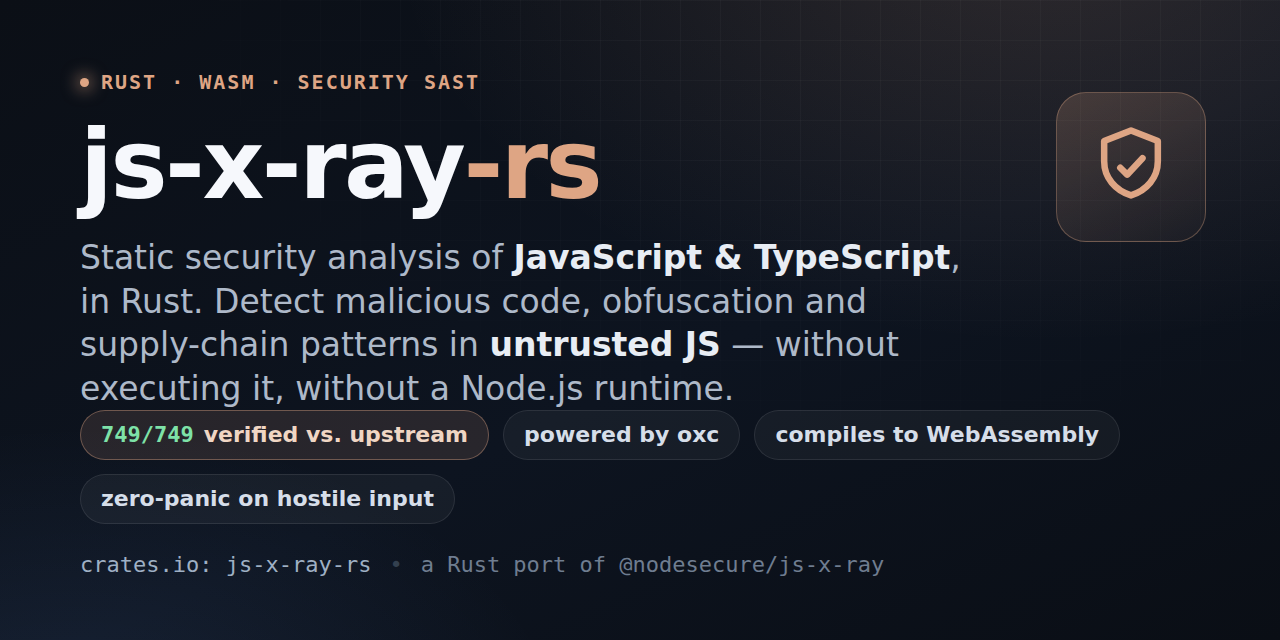
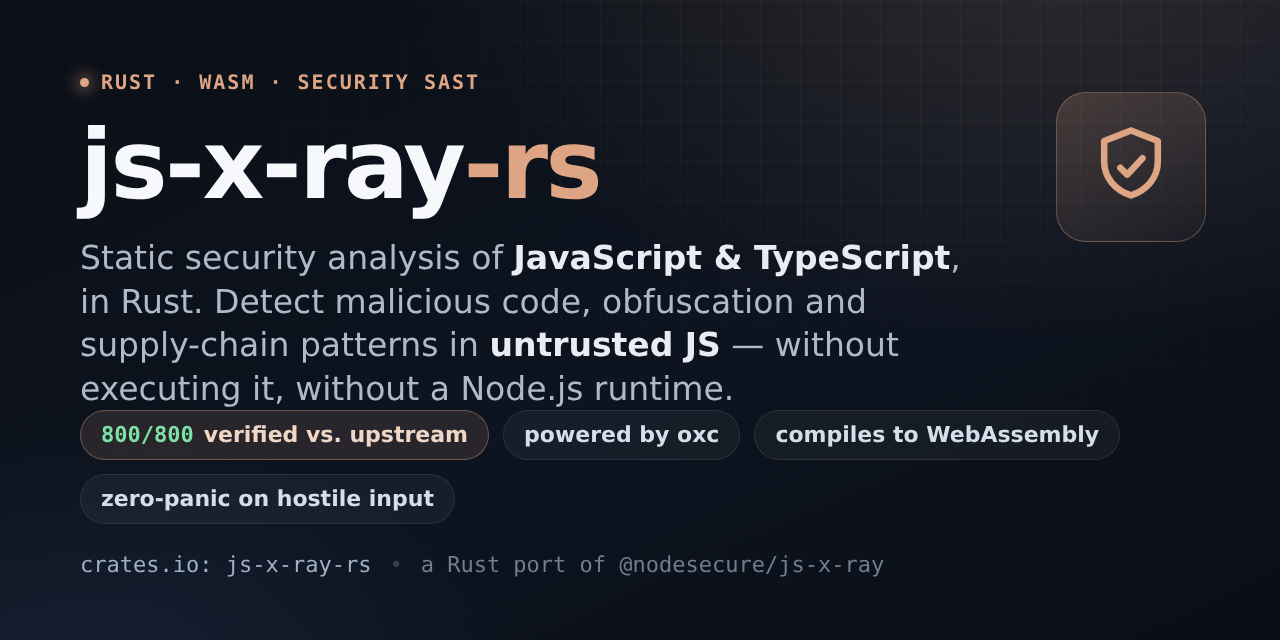
Release 0.2.1 tracking @nodesecure/js-x-ray 16.2.0
800/800 etalon cases match upstream 16.2.0.

diff --git a/.github/assets/social-preview.html b/.github/assets/social-preview.html
@@ -92,7 +92,7 @@
     </div>
 
     <div class="chips">
-      <div class="chip key"><span class="g">749/749</span> verified vs. upstream</div>
+      <div class="chip key"><span class="g">800/800</span> verified vs. upstream</div>
       <div class="chip">powered by oxc</div>
       <div class="chip">compiles to WebAssembly</div>
       <div class="chip">zero-panic on hostile input</div>

diff --git a/CHANGELOG.md b/CHANGELOG.md
@@ -4,6 +4,35 @@ All notable changes to `js-x-ray-rs` are documented here. The format follows
 [Keep a Changelog](https://keepachangelog.com/); versions follow
 [SemVer](https://semver.org/).
 
+## [0.2.1] — 2026-11-11
+
+Tracks `@nodesecure/js-x-ray` **16.2.0** ([pinned commit](UPSTREAM.lock)).
+
+### Added
+
+- `crypto.weak-pbkdf2` opt-in warning: `crypto.pbkdf2()`/`pbkdf2Sync()` with
+  an iteration count below OWASP's minimum for the digest (1,300,000 for
+  SHA-1, 600,000 for SHA-256, 210,000 otherwise) or a short or hardcoded
+  salt.
+- ``import(`lodash`)`` (template literal, no expressions) records the
+  dependency, and ``import(`data:text/javascript,...`)`` reports
+  `unsafe-import`, like their string-literal forms.
+
+### Changed
+
+- `synchronous-io` reports only the sync functions it lists, instead of
+  any traced call ending in `Sync` once `fs`, `crypto`, `child_process` or
+  `zlib` is imported. Its value is now the method name taken from the
+  traced identifier, so member calls such as `fs.readFileSync()` carry a
+  value instead of none.
+- Probes share upstream's new tracing and warning-aggregation helpers
+  (`probes::tracing`, `probes::warning_aggregator`), mirroring upstream's
+  refactor so future syncs stay line-by-line.
+
+### Verified
+
+- 800/800 etalon cases match upstream 16.2.0 byte-for-byte.
+
 ## [0.2.0] — 2026-09-24
 
 Tracks `@nodesecure/js-x-ray` **16.1.0** ([pinned commit](UPSTREAM.lock)).

diff --git a/README.md b/README.md
@@ -84,7 +84,7 @@ variable tracer resolves), source flags, and obfuscation scores.
 Every behavioral claim is anchored to the original library, not to a
 reimplementation of its spec:
 
-- **749/749 etalon cases.** A corpus extracted from upstream's entire test
+- **800/800 etalon cases.** A corpus extracted from upstream's entire test
   suite — plus extensions for modern syntax and TypeScript — is replayed
   through this port and compared against snapshots generated by running the
   *actual* `@nodesecure/js-x-ray` (warnings with locations, flags, scores,

diff --git a/PUBLISHING.md b/PUBLISHING.md
@@ -39,7 +39,7 @@ For a local release (or the very first publish before the secret exists):
 # 1. Green on the pinned toolchain CI uses.
 rustup run 1.98.0 cargo fmt --all --check
 rustup run 1.98.0 cargo clippy --workspace --all-targets -- -D warnings
-cargo test --workspace                       # 749/749 etalon + unit + fuzz
+cargo test --workspace                       # 800/800 etalon + unit + fuzz
 
 # 2. Bump the version in the workspace Cargo.toml ([workspace.package] version)
 #    and add a CHANGELOG.md entry. Commit.
